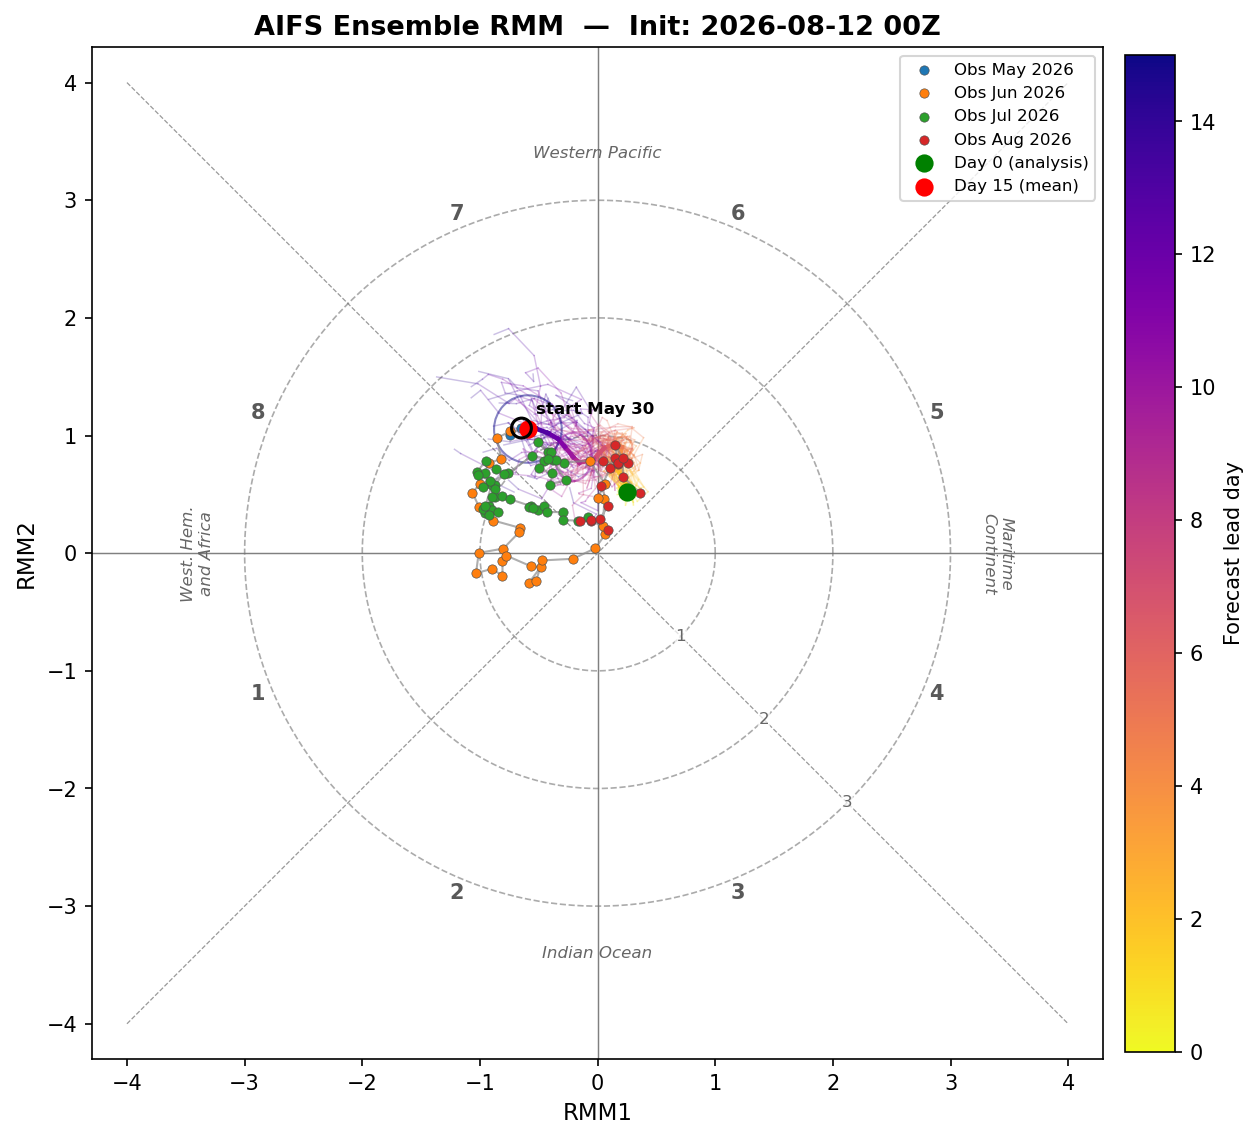
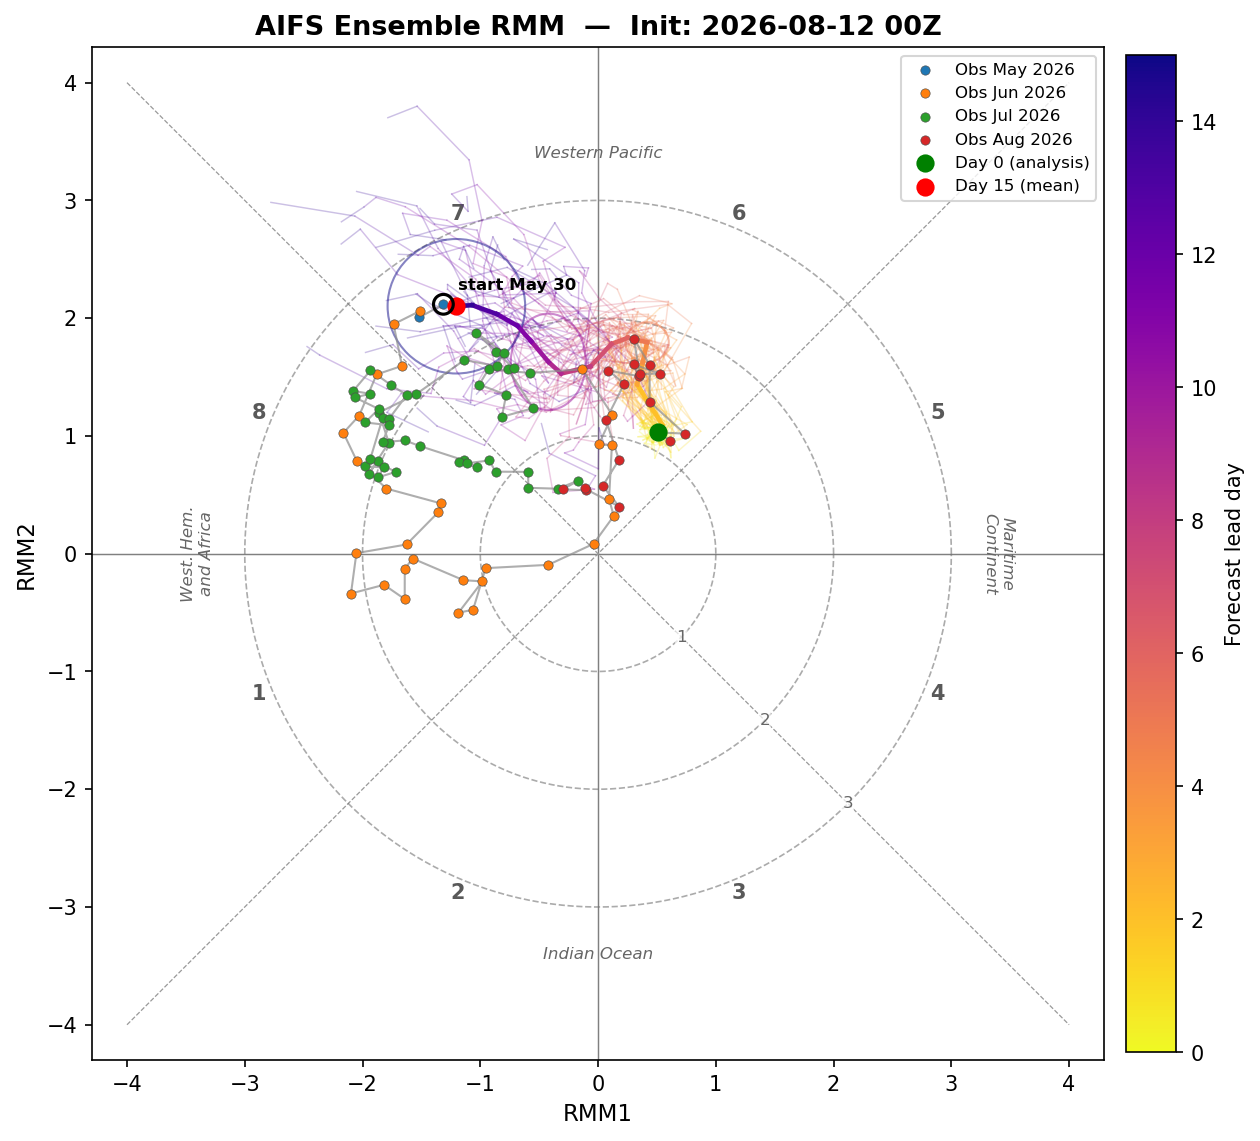
RMM amplitude recalibration: per-mode pc_wind_std from 22y ARCO/ERA5 sweep
The x2.195 stopgap (26-day OMI overlap, 2026-08-10) over-corrected by ~2x:
running the exact operational projection over ERA5 2003-2024 gives per-mode
sigma 7.093/6.859 (vs NCEP-training 6.56) — validated 0.965/0.972 corr and
0.96 amplitude ratio vs official BOM RMM over 7,606 days, and 0.989/0.995
corr with the AIFS day-0 obs trail at matching raw-PC scale (no input-side
inflation). Histories rescaled x2.0312/x1.9912; mixed-scale archive frames
purged; today's cycles rebuilt.

diff --git a/mjo.html b/mjo.html
@@ -79,7 +79,7 @@
   radial distance (rings at 1, 2, 3). Observed track is recent ERA5/AIFS analysis.</p>
     <p class="lede" style="margin:0.5rem 0 1.2rem">Latest init: <strong>2026-08-12 12Z</strong>. Drag the slider to step through successive forecast runs (oldest → latest) and watch the predicted MJO track evolve.</p>
   <iframe class="anim-embed" src="sst_anim.html?embed=1&amp;base=assets&amp;manifest=mjo/rmm_manifest.json&amp;region=mjo" title="AIFS-ENS RMM forecast — successive runs animation" loading="lazy"></iframe>
-  <p class="meta">Updated 2026-08-12 20:56Z · Auto-generated from the AIFS-ENS open-data
+  <p class="meta">Updated 2026-08-13 00:47Z · Auto-generated from the AIFS-ENS open-data
   feed. Methodology: NOAA CPC / Wheeler &amp; Hendon (2004), EOFs from NOAA OLR +
   NCEP wind with the 120-day low-frequency filter removed.</p>
 </main>

diff --git a/scripts/mjo/src/recalibrate_pc_wind_std.py b/scripts/mjo/src/recalibrate_pc_wind_std.py
@@ -1,0 +1,125 @@
+#!/usr/bin/env python3
+"""Per-mode pc_wind_std from the 2003-2024 ARCO/ERA5 equatorial-u sweep.
+
+Replicates the operational wind-only RMM path (rmm.py) over the arco_eq_u
+archive: 15S-15N cos-weighted band means -> day-of-year climatology removal
+(climatology.nc) -> trailing 120-day calendar mean removal (recent_analysis
+convention: rolling window=120, min_periods=120) -> divide by std_u850/std_u200
+-> project onto the wind portions of the reference EOFs. Sets pc_wind_std per
+mode to the ddof=1 std of THAT series — the WH04 standardization measured on
+the same reanalysis stream operations consume, replacing the x2.195 stopgap
+calibrated on a 26-day OMI overlap (2026-08-10).
+
+    python src/recalibrate_pc_wind_std.py            # compute + validate only
+    python src/recalibrate_pc_wind_std.py --apply    # also rewrite eofs.nc
+"""
+from pathlib import Path
+import argparse
+import glob
+
+import numpy as np
+import pandas as pd
+import xarray as xr
+
+REF = Path(__file__).resolve().parents[1] / "data" / "reference"
+
+
+YEARS = range(2003, 2025)
+
+
+def band_series():
+    files = [p for y in YEARS
+             if (p := str(REF / "arco_eq_u" / f"arco_eq_u_{y}.nc"))
+             and (REF / "arco_eq_u" / f"arco_eq_u_{y}.nc").exists()]
+    ds = xr.open_mfdataset(files, combine="by_coords")["uband"].load()
+    u850 = ds.sel(lev=850, drop=True)
+    u200 = ds.sel(lev=200, drop=True)
+    return u850, u200
+
+
+def trailing120(a: np.ndarray, times: pd.DatetimeIndex) -> np.ndarray:
+    full = pd.DataFrame(a, index=times).asfreq("D")
+    roll = full.rolling(window=120, min_periods=120).mean()
+    return roll.loc[times].values
+
+
+def main():
+    ap = argparse.ArgumentParser()
+    ap.add_argument("--apply", action="store_true")
+    args = ap.parse_args()
+
+    clim = xr.open_dataset(REF / "climatology.nc")
+    eofs = xr.open_dataset(REF / "eofs.nc")
+    lon = eofs.longitude.values
+
+    u850, u200 = band_series()
+    # 1 deg -> the 2.5 deg EOF/climatology longitude grid (cyclic-safe: 0..359 covers 0..357.5)
+    u850 = u850.interp(lon=lon).values
+    u200 = u200.interp(lon=lon).values
+    times = pd.DatetimeIndex(
+        xr.open_mfdataset([str(REF / "arco_eq_u" / f"arco_eq_u_{y}.nc")
+                           for y in YEARS], combine="by_coords").time.values)
+    doy = times.dayofyear.to_numpy()
+
+    a850 = u850 - clim["clim_u850"].sel(dayofyear=doy).values
+    a200 = u200 - clim["clim_u200"].sel(dayofyear=doy).values
+    a850 = a850 - trailing120(a850, times)
+    a200 = a200 - trailing120(a200, times)
+    a850 /= clim.attrs["std_u850"]
+    a200 /= clim.attrs["std_u200"]
+
+    e1 = np.concatenate([eofs["eof_u850"].sel(mode=1).values,
+                         eofs["eof_u200"].sel(mode=1).values])
+    e2 = np.concatenate([eofs["eof_u850"].sel(mode=2).values,
+                         eofs["eof_u200"].sel(mode=2).values])
+    combined = np.concatenate([a850, a200], axis=1)
+    ok = np.isfinite(combined).all(axis=1)
+    pc1, pc2 = combined[ok] @ e1, combined[ok] @ e2
+    t_ok = times[ok]
+
+    new = np.array([np.std(pc1, ddof=1), np.std(pc2, ddof=1)])
+    cur = eofs["pc_wind_std"].values.astype(float)
+    print(f"days used: {ok.sum()} ({t_ok[0].date()} .. {t_ok[-1].date()})")
+    print(f"pc_wind_std  current (x2.195 stopgap): {cur[0]:.3f}, {cur[1]:.3f}")
+    print(f"pc_wind_std  recalibrated 2003-2024:   {new[0]:.3f}, {new[1]:.3f}")
+    print(f"amplitude change factor (cur/new):     {cur[0]/new[0]:.4f}, {cur[1]/new[1]:.4f}")
+
+    # Validation vs BOM official RMM (frozen telecon copy; 1974-2024-02).
+    bom = pd.read_csv(
+        Path(__file__).resolve().parents[2] / "telecon" / "data" /
+        "predictor_store" / "rmm_history.txt",
+        skiprows=2, sep=r"\s+", usecols=range(7), na_values=[999, 1e36],
+        names=["y", "m", "d", "rmm1", "rmm2", "phase", "amp"])
+    bom = bom[bom.rmm1.abs() < 100]
+    ot = pd.to_datetime(bom[["y", "m", "d"]].rename(
+        columns={"y": "year", "m": "month", "d": "day"}))
+    bom.index = pd.DatetimeIndex(ot)
+    common = t_ok.intersection(bom.index)
+    io = bom.index.get_indexer(common); im = t_ok.get_indexer(common)
+    r1o = bom["rmm1"].values[io]; r2o = bom["rmm2"].values[io]
+    m = np.isfinite(r1o) & np.isfinite(r2o)
+    r1n, r2n = pc1[im][m] / new[0], pc2[im][m] / new[1]
+    r1o, r2o = r1o[m], r2o[m]
+    amp_n = np.hypot(r1n, r2n); amp_o = np.hypot(r1o, r2o)
+    print(f"\nvalidation vs BOM RMM, {m.sum()} common days "
+          f"({common[0].date()} .. {common[-1].date()}):")
+    print(f"  corr RMM1 {np.corrcoef(r1n, r1o)[0,1]:.3f}   "
+          f"RMM2 {np.corrcoef(r2n, r2o)[0,1]:.3f}")
+    print(f"  median amplitude ratio ours/BOM: {np.median(amp_n/amp_o):.3f}")
+    print(f"  std ratio RMM1 {np.std(r1n)/np.std(r1o):.3f}  "
+          f"RMM2 {np.std(r2n)/np.std(r2o):.3f}")
+
+    if args.apply:
+        eofs = eofs.load(); eofs.close()
+        eofs["pc_wind_std"].values[:] = new
+        eofs.attrs["pc_wind_std_note"] = (
+            "per-mode std of operational wind-only projection over ARCO/ERA5 "
+            "2003-2024 (recalibrate_pc_wind_std.py, 2026-08-12); replaces "
+            "x2.195 OMI-overlap stopgap")
+        tmp = REF / "eofs.nc.tmp"
+        eofs.to_netcdf(tmp); tmp.replace(REF / "eofs.nc")
+        print("\neofs.nc updated.")
+
+
+if __name__ == "__main__":
+    main()

diff --git a/scripts/mjo/src/fetch_arco_eq_u.py b/scripts/mjo/src/fetch_arco_eq_u.py
@@ -1,0 +1,109 @@
+#!/usr/bin/env python3
+"""ERA5 (ARCO) daily equatorial-band zonal wind for RMM self-standardization.
+
+Supersedes the MERRA-2 sweep (fetch_m2_eq_u.py): calibrate pc_wind_std on the
+same reanalysis stream the operational index consumes (ERA5/AIFS).
+
+Reads the native 0.25 deg 37-level ARCO store per timestep. One chunk = one
+hour x all levels x full globe, so u850+u200 and the whole 15S-15N band arrive
+in the same read — latitude subsetting saves nothing on the wire, only decode;
+the real cost knob is snapshots per day (ARCO_HOURS=12 for a 4x cheaper
+1x/day snapshot; band-mean u diurnal cycle < 0.3 m/s). Stores the cos-weighted
+15S-15N band mean per longitude at 1 deg, all 37 levels.
+
+Yearly files, day-resumable, partitionable [k n] (GCS tolerates parallel
+workers, unlike GES DISC's 2-connection cap).
+Output: data/reference/arco_eq_u/arco_eq_u_<YYYY>.nc  (uband: time, lev, lon)
+
+    python src/fetch_arco_eq_u.py [k n]
+"""
+from pathlib import Path
+import os
+import sys
+import time
+import numpy as np
+import pandas as pd
+import xarray as xr
+
+OUT = Path(__file__).resolve().parents[1] / "data" / "reference" / "arco_eq_u"
+OUT.mkdir(parents=True, exist_ok=True)
+ARCO = "gs://gcp-public-data-arco-era5/ar/full_37-1h-0p25deg-chunk-1.zarr-v3"
+HOURS = [int(h) for h in os.environ.get("ARCO_HOURS", "0,6,12,18").split(",")]
+Y0, Y1 = 2003, 2024
+
+
+def open_u():
+    ds = xr.open_zarr(ARCO, storage_options={"token": "anon"}, chunks=None)
+    u = ds["u_component_of_wind"]
+    lat = u.latitude.values
+    latsl = slice(15.05, -15.05) if lat[0] > lat[-1] else slice(-15.05, 15.05)
+    return u.sel(latitude=latsl).isel(longitude=slice(0, 1440, 4))
+
+
+def fetch_day(u, d):
+    for attempt in range(3):
+        try:
+            times = [d + pd.Timedelta(hours=h) for h in HOURS]
+            sub = u.sel(time=times).compute()     # (nt, lev, lat, lon)
+            v = sub.values
+            if not (np.isnan(v).mean() < 0.01 and np.nanmax(np.abs(v)) < 400):
+                raise ValueError("failed sanity check")
+            w = np.cos(np.deg2rad(sub.latitude.values))
+            band = np.nansum(v * w[None, None, :, None], axis=2) / w.sum()
+            band = band.mean(axis=0)              # daily mean -> (lev, lon)
+            return dict(lev=sub.level.values, lon=sub.longitude.values,
+                        uband=band.astype("float32")), u
+        except Exception:                         # noqa: BLE001
+            time.sleep(5)
+            try:
+                u = open_u()                      # fresh handle after stream errors
+            except Exception:                     # noqa: BLE001
+                pass
+    return None, u
+
+
+def save(f, pieces, buf):
+    merged = xr.concat(pieces + buf, dim="time").sortby("time")
+    merged = merged.isel(
+        time=~pd.Index(merged.time.values).duplicated(keep="last"))
+    tmp = f.with_suffix(".nc.tmp"); merged.to_netcdf(tmp); tmp.replace(f)
+    return merged
+
+
+def main():
+    k, n = (int(sys.argv[1]), int(sys.argv[2])) if len(sys.argv) == 3 else (0, 1)
+    u = open_u()
+    years = [y for i, y in enumerate(range(Y0, Y1 + 1)) if i % n == k]
+    for y in years:
+        f = OUT / f"arco_eq_u_{y}.nc"
+        have, done = None, set()
+        if f.exists():
+            have = xr.open_dataset(f).load(); have.close()
+            done = set(pd.DatetimeIndex(have.time.values).normalize())
+        todo = [d for d in pd.date_range(f"{y}-01-01", f"{y}-12-31")
+                if d not in done]
+        if not todo:
+            print(f"{y}: complete ({len(done)} days)", flush=True)
+            continue
+        print(f"{y}: fetching {len(todo)} days", flush=True)
+        pieces = [have] if have is not None else []
+        buf, t0 = [], time.time()
+        for d in todo:
+            r, u = fetch_day(u, d)
+            if r is None:
+                print(f"  {d.date()}: FAILED", flush=True)
+                continue
+            buf.append(xr.Dataset(
+                {"uband": (("time", "lev", "lon"), r["uband"][None])},
+                coords={"time": [d], "lev": r["lev"], "lon": r["lon"]}))
+            if len(buf) >= 15:
+                pieces, buf = [save(f, pieces, buf)], []
+                print(f"  ... {d.date()} ({time.time()-t0:.0f}s)", flush=True)
+        if buf:
+            save(f, pieces, buf)
+        print(f"{y}: done in {time.time()-t0:.0f}s", flush=True)
+    print("all done", flush=True)
+
+
+if __name__ == "__main__":
+    main()
